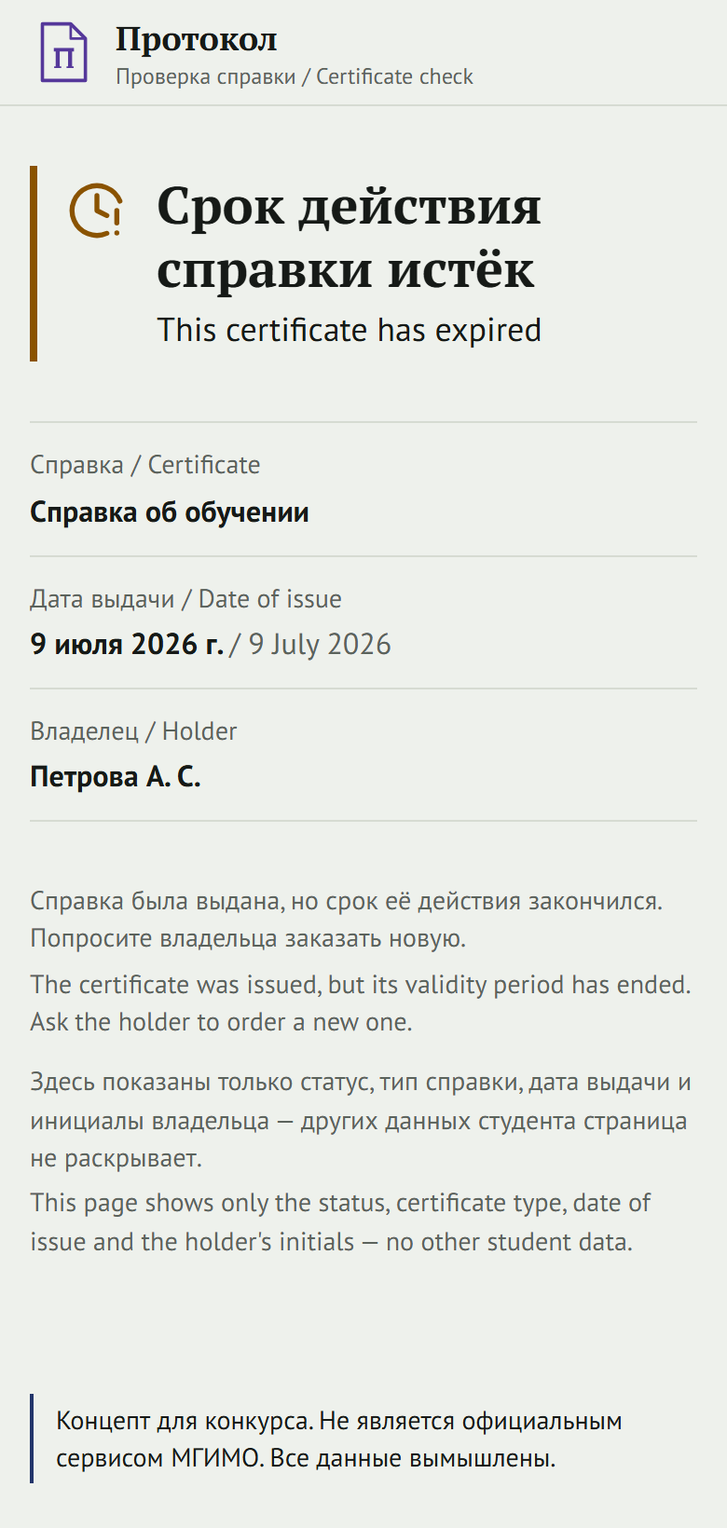
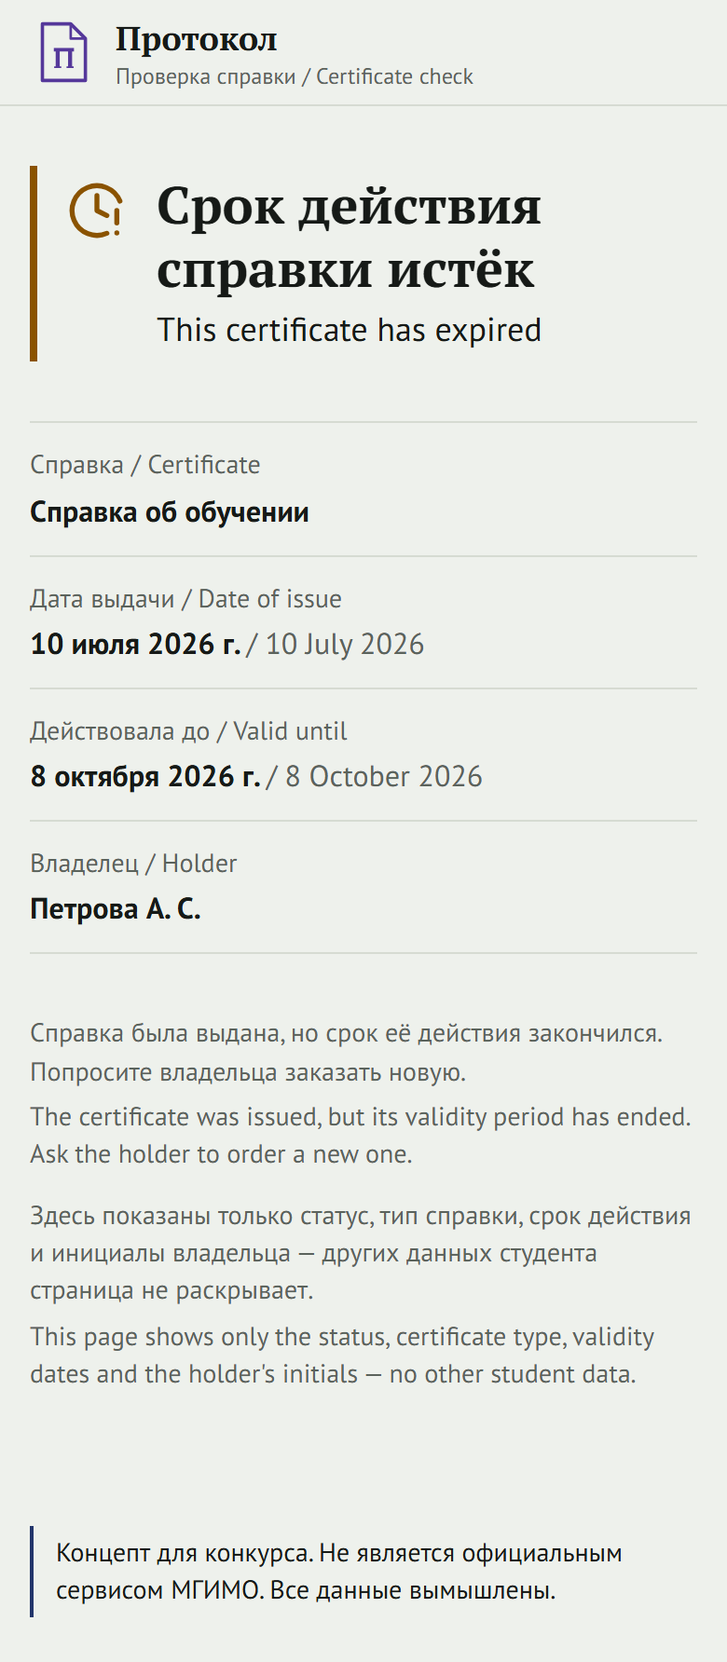
feat(verify): «Действует до» на странице проверки справки
Решение человека 07.11: проверяющему (посольству, работодателю) нужен срок действия, это не
персональные данные. S7 в 05-security.md поправил человек. У истёкшей справки — «Действовала до».
Интеграция и e2e обновлены; номера зачётки и оценок на /verify по-прежнему нет (тест 8).

diff --git a/src/app/verify/[token]/page.tsx b/src/app/verify/[token]/page.tsx
@@ -8,7 +8,7 @@ import { verifyTokenSchema } from "@/lib/verify-token";
 import { documentByToken, type VerifyState } from "@/server/repos/verify";
 
 // Публичная проверка справки по QR (T10). Без входа: guard не нужен — страница показывает только
-// разрешённое S7: «действительна / отозвана / срок истёк», тип, дату выдачи и инициалы. Номера
+// разрешённое S7: «действительна / отозвана / срок истёк», тип, дату выдачи, срок действия и инициалы. Номера
 // зачётки, оценок, причины отзыва нет и в выборке (repos/verify.ts). Битый токен — 404 без запроса к БД.
 // Своего loading.tsx нет: проверка до начала стрима, «не найдена» — настоящий HTTP 404.
 // Двуязычная: справку для визы проверяет посольство — английский идёт строкой под русским.
@@ -113,6 +113,20 @@ export default async function VerifyPage({ params }: PageProps<"/verify/[token]"
             </span>
           </dd>
         </div>
+        {doc.validUntil ? (
+          <div className="flex flex-col gap-0.5 py-3">
+            <dt className="text-sm text-ink-muted">
+              {doc.state === "expired" ? "Действовала до" : "Действует до"}{" "}
+              <span lang="en">/ Valid until</span>
+            </dt>
+            <dd className="font-bold text-ink">
+              {longDate(doc.validUntil, "ru-RU")}{" "}
+              <span lang="en" className="font-normal text-ink-muted">
+                / {longDate(doc.validUntil, "en-GB")}
+              </span>
+            </dd>
+          </div>
+        ) : null}
         <div className="flex flex-col gap-0.5 py-3">
           <dt className="text-sm text-ink-muted">
             Владелец <span lang="en">/ Holder</span>
@@ -125,11 +139,11 @@ export default async function VerifyPage({ params }: PageProps<"/verify/[token]"
         <p>{s.hint}</p>
         <p lang="en">{s.hintEn}</p>
         <p className="pt-2">
-          Здесь показаны только статус, тип справки, дата выдачи и инициалы владельца — других
+          Здесь показаны только статус, тип справки, срок действия и инициалы владельца — других
           данных студента страница не раскрывает.
         </p>
         <p lang="en">
-          This page shows only the status, certificate type, date of issue and the holder&apos;s
+          This page shows only the status, certificate type, validity dates and the holder&apos;s
           initials — no other student data.
         </p>
       </div>

diff --git a/src/server/repos/verify.ts b/src/server/repos/verify.ts
@@ -5,8 +5,8 @@ import { db } from "@/server/db";
 // Публичная проверка справки по QR (T10, S7) — исключение из правила «каждая функция репозитория
 // получает ctx»: проверяющий (посольство, работодатель) не входит в систему. Доступ даёт сам токен —
 // 128 бит случайности (repos/staff-requests.changeStatus), перебором не найти.
-// Наружу — только статус, тип, дата выдачи и инициалы. Полное ФИО собирается в инициалы ЗДЕСЬ и из
-// функции не выходит; номера зачётки, оценок, причины отзыва в выборке нет вовсе.
+// Наружу — только статус, тип, дата выдачи, срок действия и инициалы. Полное ФИО собирается
+// в инициалы ЗДЕСЬ и из функции не выходит; номера зачётки, оценок, причины отзыва в выборке нет вовсе.
 
 export type VerifyState = "valid" | "revoked" | "expired";
 
@@ -16,6 +16,8 @@ export type VerifiedDocument = {
   typeTitle: string;
   language: string;
   issuedAt: Date;
+  /** «Действует до» — решение человека 07.11 (S7): проверяющему нужен срок, это не персональные данные */
+  validUntil: Date | null;
   holder: string;
 };
 
@@ -43,6 +45,7 @@ export async function documentByToken(token: string, now: Date): Promise<Verifie
     typeTitle: r.type.title,
     language: r.language,
     issuedAt: d.issuedAt,
+    validUntil: d.validUntil,
     holder: holderInitials(r.student, r.language === "en"),
   };
 }

diff --git a/tests/e2e/certificates.spec.ts b/tests/e2e/certificates.spec.ts
@@ -188,6 +188,8 @@ test.describe("проверка по QR (/verify)", () => {
     await expect(page.getByRole("heading", { level: 1 })).toHaveText("Справка действительна");
     await expect(page.getByText("This certificate is valid")).toBeVisible();
     await expect(page.getByText("Справка об обучении на английском")).toBeVisible();
+    // Срок действия — решение человека 07.11 (S7)
+    await expect(page.getByText(/^Действует до/)).toBeVisible();
     // Справка на английском — инициалы латиницей, как в самой справке
     await expect(
       page.locator("dd").filter({ hasText: /^[A-Z][a-z]+ [A-Z]\. [A-Z]\.$/ }),

diff --git a/tests/integration/certificates.test.ts b/tests/integration/certificates.test.ts
@@ -84,7 +84,7 @@ describe.skipIf(!url)("справки в PostgreSQL", async () => {
     expect(json).not.toContain(full.firstName);
     expect(json).not.toContain(full.recordBookNo);
     expect(Object.keys(v!).sort()).toEqual(
-      ["holder", "issuedAt", "language", "state", "typeCode", "typeTitle"].sort(),
+      ["holder", "issuedAt", "language", "state", "typeCode", "typeTitle", "validUntil"].sort(),
     );
     expect(await verify.documentByToken("A".repeat(22), new Date())).toBeNull();
   });

diff --git a/docs/04-design.md b/docs/04-design.md
@@ -82,7 +82,7 @@
 - **Успеваемость (T07):** экран «Учёба». «Как у меня дела» — всегда про текущий семестр: средний рейтинг крупно (PT Serif), долги (`--danger`, `CircleX`, ссылкой на дисциплину — видны всегда, не прячутся за переключателем), `ScholarshipBadge` (`ShieldCheck` / `ShieldAlert` + причины списком; тот же компонент на «Сейчас»), «Экзамены и зачёты 9 ноября – 20 января: …» и «Ближайшее — экзамен «…», через 3 дня». ≥ 1024 — правая колонка (sticky), как «Изменения недели». Семестры — ссылки с чернильной чертой (`?semester=`), текущий — `/grades`. Дисциплины — **строки под линиями, не карточки** (роль `DisciplineCard`): название-ссылка на всю строку, форма контроля и дата, рейтинг-бар 0–100 с засечкой на 60 и числом «54/100», чип светофора; сначала проблемные. Светофор — тон + своя иконка + текст: «Долг» (`danger`, `CircleX`), «Ниже 60» (`warn`, `TrendingDown`) + «Не хватает 6 баллов до 60», оценка 3 (`warn`, `CircleAlert`), итог словом «Отлично (5)» / «Зачтено» / «В норме» (`ok`). Бар — SVG с атрибутами, не `style={{ width }}`: прод-CSP режет inline-стили. Детали `/grades/[id]`: по семестрам рейтинг `text-3xl`, бар, «это долг: пересдачу назначает деканат — «Заявки»», пары «подпись — значение» (на телефоне подпись над значением). У деталей нет skeleton намеренно: чужой id — настоящий HTTP 404 (стрим не начинается до проверки владельца). Заголовок экрана (`PageHeader`) переносит длинное слово — «Эконометрика» при тексте 200% растягивала мобильный вьюпорт.
 - **Заявки (T08):** студент — «Заявки»: «Активные» («Готова — заберите» первой) и «Архив» строками под линиями, одна заливная кнопка «Заказать справку». «Заказать справку» — каталог списком (мастер «Зачем?» — T10), форма из описания полей типа, язык справки радиокнопками, кнопка «Отправить заявку» на телефоне во всю ширину. Заявка — `RequestTimeline`: вертикальные шаги Подана → Принята → В работе → Готова → Выдана; пройденный — `CircleCheck` `--ok` и дата, текущий — `CircleDot` `--brand` и полужирный, будущий — тихий; скрытое «пройден / сейчас / впереди»; отклонение — `CircleX` `--danger` и «Причина: …», отмена — `CircleSlash`. Статусы — `REQUEST_STATUS` (все 7), «Выдана» — единственное место печати `--seal`. Подтверждения (отмена, отклонение с причиной, «Сбросить демо») — `DialogForm` на нативном `<dialog>`. Сотрудник — «Очередь заявок»: вкладки статуса ссылками, факультет и тип — GET-формой (работает без JS), просрочка — чип `--danger` + `AlarmClock` + «Просрочена на 2 дня», просроченные наверху. Карточка: статус и действия сверху (первый шаг — заливная кнопка-глагол, остальные — outline, «Отклонить» — destructive), студент, что указал, история с исполнителями. Строка-ссылка (касание по всей строке через `::after`) — цель касания считается по строке (`shell.spec.ts`).
 - **Уведомления (T09):** на телефоне — колокольчик в шапке справа от логотипа (44px в px, `aria-label` «Уведомления, 3 непрочитанных»), уведомления за 1 касание; число непрочитанных — только у колокольчика, на «Ещё» его нет (решение человека 06.11), на десктопе — у «Уведомлений» в боковой панели и на `/more`. Вкладки «Все / Объявления / Дедлайны / Заявки / Расписание» — ссылками с чернильной чертой, как очередь T08, у каждой вкладки — число новых, и у «Объявлений» тоже. Список — два раздела: «Новые» (сверху, `h2`, в его заголовке — тихая ghost-кнопка «Отметить…») и «Прочитанные» (ниже, мелкий приглушённый заголовок). Новое громко: черта цвета вида в поле страницы слева (как изменения в расписании; перенос и срок — `--warn`, заявка и объявление — `--brand`), значок вида в круге `--brand-soft`, заголовок `text-lg` полужирный, текст `--ink`, скрытое «Новое:». Прочитанное тихо: значок без круга `--ink-muted`, заголовок обычным, текст `text-sm` `--ink-muted` (решение человека 06.11: «в тёмной теме всё сливается в кашу»). Иконки вида — `Megaphone`, `AlarmClock`, `FileText`, `CalendarClock` + скрытая подпись вида; касание по всей строке открывает и отмечает прочитанным; есть ссылка — шеврон справа. «Отметить всё прочитанным» (на «Все») / «Отметить прочитанными» (на вкладке — гасит только её вид, ux-reviewer T09) — только когда есть новые (заливных кнопок на экране нет). Значок и бейдж колокольчика — в px: при тексте 200% бейдж не закрывает значок. «Объявления» — доска: закреплённые сверху («Закреплено» + `Pin`), заголовок PT Serif, текст с разметкой (жирный, курсив, списки, ссылки; внешняя — значок и скрытое «(внешняя ссылка)»); объявление, на которое ведёт уведомление, подсвечено `--brand-soft` (`:target`); объявление с неоткрытым уведомлением — точка и «Новое». На «Сейчас» текст объявления — без разметки. Сотрудник: «Заявки / Объявления / Расписание» в шапке (на телефоне — без значков, в одну строку; «Выйти» — в строке логотипа; шапка в 3 строки вместо 5); «Новое объявление» — подписи над полями, «Кому» — чекбоксы своих факультетов (по умолчанию все), курсов и групп (группы свёрнуты в `<details>` по факультету), заливная «Опубликовать» — одна на экран, успех — сноска с чертой `--ok` и «получили N студентов»; в «Моих объявлениях» — «Кому» и число адресатов на своих факультетах (не число разосланных уведомлений). Расписание групп — GET-форма «Группа + День»; без дня — ближайший день с предстоящими парами; заголовок дня первой строкой, «‹ Предыдущий», «К сегодня», «Следующий ›» — второй; пары строками со столбцом времени; «Перенести» — outline, диалог `DialogForm` (дата, начало «С 08:00 до 21:00», аудитория «Сейчас — ауд. 5050. Пусто — останется прежняя», причина → «Перенести пару»); перенесённая — `CalendarClock` + «Перенос, было 10:10» + причина `--warn`.
-- **Справки (T10):** «Заказать справку» начинается с `PurposePicker` — сетка 6 целей (плитка-ссылка целиком: значок в круге `--brand-soft`, цель `text-lg` полужирным, строка «для чего» `--ink-muted`; колонки по ширине в rem: `minmax(9.5rem)` — две колонки и на 360, при тексте 200% — одна; на ≥ 1024 ровно 3×2). **Над** сеткой тихая ссылка «Я знаю, какая справка нужна» → полный каталог: кто знает справку, доходит в 1 касание без прокрутки (ux-reviewer T10). Дальше — строки под линиями (как каталог T08, касание по всей строке): справки под цель; пометка `--brand` полужирным — только у одной, рекомендованной («Чаще всего просят для визы»): язык и так написан в строке «Язык: …», шаг «На каком языке справка?» (рекомендованный язык первым, с пометкой «Рекомендуем»), форма с языком строкой над полями («Язык справки: английский», строчными) и ссылкой «Изменить». Заливная кнопка — только «Отправить заявку»; счётчика шагов нет (шаг языка необязательный — «2 из 3» врал бы). Заявка «Готова»/«Выдана»: outline-кнопка «Скачать справку (PDF)» с `FileDown`; отозвана — чип «Справка отозвана» (`danger`, `ShieldX`; не печать «Выдана» `--seal` — она значит действующий документ) и сноска с чертой `--danger`: «Деканат отозвал справку» + причина + «Новая справка получит новый QR-код» + outline «Подать заново» прямо в сноске. Сотрудник: блок «Справка» («Оформлена …» на «Готова», «Выдана …» на «Выдана» — документ создаётся раньше выдачи на руки; действует до, «Открыть страницу проверки», destructive «Отозвать справку» → `DialogForm` с обязательной причиной). **PDF:** A4, бланк — знак-лист и «Протокол — концепт цифрового деканата» в шапке под тонкой линией, заголовок PT Serif `--brand`, строки «подпись — значение» под линиями, «Сотрудник деканата» с линией подписи и пунктирный круг «М.П.» (`--seal`), внизу QR и адрес проверки; водяной знак по диагонали через середину листа, последним слоем и мимо QR (у кода белый фон, знак обрезался — ux-reviewer T10) «ОБРАЗЕЦ — КОНЦЕПТ ДЛЯ КОНКУРСА» (`--seal`, 12%; в задаче было через «·» — заменено тире по правилу «без разделителей „A · B“»), строка концепта в подвале с чертой `--brand`. Лигатуры в PDF выключены: иначе «fi» в «Certificate» не ищется и не копируется. **`/verify`:** без навигации кабинета, колонка по центру (как документ) — шапка «Протокол / Проверка справки», статус крупно (черта слева 4px + значок 32px + `h1`): «Справка действительна» (`--ok`, `ShieldCheck`), «отозвана деканатом» (`--danger`, `ShieldX`), «срок действия истёк» (`--warn`, `ClockAlert`), «не найдена» (`--ink-muted`, `SearchX`, HTTP 404); под каждой русской строкой — английская (`lang="en"`), включая подсказки, «не найдена» и свой двуязычный `error.tsx`. Шаги мастера — со своим skeleton (`requests/new/loading.tsx`: в адресе нет id, 404 после стрима не грозит). Ниже — «Справка / Дата выдачи / Владелец» строками под линиями и подсказка, что сверить с бумагой.
+- **Справки (T10):** «Заказать справку» начинается с `PurposePicker` — сетка 6 целей (плитка-ссылка целиком: значок в круге `--brand-soft`, цель `text-lg` полужирным, строка «для чего» `--ink-muted`; колонки по ширине в rem: `minmax(9.5rem)` — две колонки и на 360, при тексте 200% — одна; на ≥ 1024 ровно 3×2). **Над** сеткой тихая ссылка «Я знаю, какая справка нужна» → полный каталог: кто знает справку, доходит в 1 касание без прокрутки (ux-reviewer T10). Дальше — строки под линиями (как каталог T08, касание по всей строке): справки под цель; пометка `--brand` полужирным — только у одной, рекомендованной («Чаще всего просят для визы»): язык и так написан в строке «Язык: …», шаг «На каком языке справка?» (рекомендованный язык первым, с пометкой «Рекомендуем»), форма с языком строкой над полями («Язык справки: английский», строчными) и ссылкой «Изменить». Заливная кнопка — только «Отправить заявку»; счётчика шагов нет (шаг языка необязательный — «2 из 3» врал бы). Заявка «Готова»/«Выдана»: outline-кнопка «Скачать справку (PDF)» с `FileDown`; отозвана — чип «Справка отозвана» (`danger`, `ShieldX`; не печать «Выдана» `--seal` — она значит действующий документ) и сноска с чертой `--danger`: «Деканат отозвал справку» + причина + «Новая справка получит новый QR-код» + outline «Подать заново» прямо в сноске. Сотрудник: блок «Справка» («Оформлена …» на «Готова», «Выдана …» на «Выдана» — документ создаётся раньше выдачи на руки; действует до, «Открыть страницу проверки», destructive «Отозвать справку» → `DialogForm` с обязательной причиной). **PDF:** A4, бланк — знак-лист и «Протокол — концепт цифрового деканата» в шапке под тонкой линией, заголовок PT Serif `--brand`, строки «подпись — значение» под линиями, «Сотрудник деканата» с линией подписи и пунктирный круг «М.П.» (`--seal`), внизу QR и адрес проверки; водяной знак по диагонали через середину листа, последним слоем и мимо QR (у кода белый фон, знак обрезался — ux-reviewer T10) «ОБРАЗЕЦ — КОНЦЕПТ ДЛЯ КОНКУРСА» (`--seal`, 12%; в задаче было через «·» — заменено тире по правилу «без разделителей „A · B“»), строка концепта в подвале с чертой `--brand`. Лигатуры в PDF выключены: иначе «fi» в «Certificate» не ищется и не копируется. **`/verify`:** без навигации кабинета, колонка по центру (как документ) — шапка «Протокол / Проверка справки», статус крупно (черта слева 4px + значок 32px + `h1`): «Справка действительна» (`--ok`, `ShieldCheck`), «отозвана деканатом» (`--danger`, `ShieldX`), «срок действия истёк» (`--warn`, `ClockAlert`), «не найдена» (`--ink-muted`, `SearchX`, HTTP 404); под каждой русской строкой — английская (`lang="en"`), включая подсказки, «не найдена» и свой двуязычный `error.tsx`. Шаги мастера — со своим skeleton (`requests/new/loading.tsx`: в адресе нет id, 404 после стрима не грозит). Ниже — «Справка / Дата выдачи / Действует до (у истёкшей — «Действовала до») / Владелец» строками под линиями и подсказка, что сверить с бумагой.
 - **Дизайн-проход (06.11, скилл `frontend-design`).** Смелость — в одном месте: метафора бланка (знак-лист, «М.П.», сноски с чертой). Печать-оттиск T04 заменена листом бланка в T05 (см. «Логотип»). Всё остальное тише:
   - пустые состояния — текст слева, без карточки, под тонкой линией; знак «М.П.» (место печати с бланков, `stampPlace`) — только у заявок и справок, где метафора «ещё не заверено» точна; ошибка — сплошной круг `--danger`;
   - оболочка на `--bg` без карточек; активный пункт — чернильная черта (сверху в нижней панели, слева в сайдбаре) + полужирный, не плашка;

diff --git a/docs/03-architecture.md b/docs/03-architecture.md
@@ -211,7 +211,7 @@ Server Action → zod.parse → requireRole → service → repo(ctx) → revali
 | `/staff/announcements` | STAFF | объявления (T09): адресаты — только свои факультеты. `buildAudience` (`services/staff-rules.ts`) отбрасывает чужой факультет и группу, «ничего не выбрано» = все свои (не `{}` «всем»); `repos/staff-announcements.ts` ещё раз фильтрует адресатов по `facultyIds`. Публикация — одна транзакция: объявление + уведомления адресатам (тело — `markdownToPlain` ≤ 200, ссылка — на доску). «Никому» — не публикуем. «Закрепить» — `updateMany({ id, authorId })` |
 | `/staff/schedule?group=…&day=…` | STAFF | расписание групп и перенос пары (T09): только академические группы своих факультетов (`repos/staff-schedule.ts`, фильтр в каждом запросе). Перенос — `updateMany({ id, startsAt: ожидаемое, факультет })` с `count === 1` (два сотрудника разом → «пару уже изменили»), длительность сохраняется, `originalStartsAt` — первое исходное время, `change = MOVED`, причина — `changeNote`; уведомление каждому студенту группы со ссылкой `/schedule?day=…`. Время 08:00–21:00, не в прошлое и не дальше 30 дней (zod + `newStartsAt`). Ночной `db:reseed-schedule` возвращает расписание к сиду |
 | `/requests/[number]/pdf` | STUDENT, только владелец | PDF справки (T10): route handler, `requireStudent()` первой строкой; `repos/requests.documentForPdf` — `WHERE number AND studentId = ctx AND status ∈ {READY, ISSUED} AND документ не отозван`, явный select без зачётки и оценок; иначе 404 без тела (чужую, неготовую и отозванную не различаем). Генерация по запросу, файлы не храним (stateless): `@react-pdf/renderer`, TTF PT Sans/PT Serif из `assets/fonts` (`outputFileTracingIncludes` кладёт их в standalone), QR — вектор из матрицы `uqr` (ECC M, тихая зона 4) на `APP_URL/verify/<token>`; англ. версия — ФИО по ICAO 9303, факультеты — `lib/certificate-en.ts`. `Cache-Control: private, no-store`. Шрифты регистрируются заново на каждый документ, рендеры — по очереди (кэш глифов fontkit портил ToUnicode следующей справки — см. `docs/process/ai-errors.md`, T10) |
-| `/verify/[token]` | публично | проверка справки по QR (T10, S7). Токен — zod (22 символа base64url), битый → 404 без запроса к БД. `repos/verify.ts` — исключение «без ctx» (как `system.ts`): доступ даёт сам токен (128 бит, перебором не найти — лимит запросов не нужен). Наружу — только «действительна / отозвана / срок истёк», тип, дата выдачи и инициалы; полное ФИО превращается в инициалы внутри репозитория, причина отзыва в выборку не входит. Двуязычная (английский — строкой под русским: справку для визы проверяет посольство). Без `loading.tsx` — «не найдена» отдаёт настоящий 404; `robots: noindex`, `referrer: no-referrer`. **Отзыв** — сотрудник своего факультета на карточке заявки: `updateMany({ id, revoked: false, факультет })` с `count === 1` (двое разом → conflict), `revokedAt/revokedReason/revokedByUserId` + уведомление студенту в той же транзакции; причину видит только студент |
+| `/verify/[token]` | публично | проверка справки по QR (T10, S7). Токен — zod (22 символа base64url), битый → 404 без запроса к БД. `repos/verify.ts` — исключение «без ctx» (как `system.ts`): доступ даёт сам токен (128 бит, перебором не найти — лимит запросов не нужен). Наружу — только «действительна / отозвана / срок истёк», тип, дата выдачи, «действует до» (решение человека 07.11, S7) и инициалы; полное ФИО превращается в инициалы внутри репозитория, причина отзыва в выборку не входит. Двуязычная (английский — строкой под русским: справку для визы проверяет посольство). Без `loading.tsx` — «не найдена» отдаёт настоящий 404; `robots: noindex`, `referrer: no-referrer`. **Отзыв** — сотрудник своего факультета на карточке заявки: `updateMany({ id, revoked: false, факультет })` с `count === 1` (двое разом → conflict), `revokedAt/revokedReason/revokedByUserId` + уведомление студенту в той же транзакции; причину видит только студент |
 | `/dev/ui` | только `pnpm dev` | витрина компонентов; в прод-сборке 404 |
 | `/api/calendar/[token]` | по токену | подписка на расписание. Файл `route.ts`; ссылка вида `…/<token>.ics`, суффикс `.ics` отрезаем в обработчике (папка `[token].ics` — недопустимый динамический сегмент) |
 | `/api/assistant` | STUDENT | стрим ответа ИИ |

diff --git a/docs/process/journal.md b/docs/process/journal.md
@@ -164,4 +164,4 @@
 - Стоит снять человеку: скачивание PDF на своём телефоне и сканирование QR камерой (живой сценарий для видео: «справка для визы за 4 касания → QR → посольство видит „Действительна“»); отзыв Ириной — и `/verify`, который сразу показывает «Отозвана».
 **Время:** ~2 ч
 
-**T10 — итог проверки человеком (07.11).** QR из справки распознан камерой телефона (по `screenshots/10-T10-qr-camera.png`): > «QR работает» — приёмка 3 закрыта. security-guidance выключен по «да» человека. «Действует до» на `/verify` — человек согласился («Да»): правку S7 в `05-security.md` вносит человек, поле — отдельным коммитом. Отдельная сессия проверила agy cli — вердикт «условно» (`07-tooling.md`, правило в CLAUDE.md), отдельный коммит.
+**T10 — итог проверки человеком (07.11).** QR из справки распознан камерой телефона (по `screenshots/10-T10-qr-camera.png`): > «QR работает» — приёмка 3 закрыта. security-guidance выключен по «да» человека. «Действует до» на `/verify` — человек согласился («Да»): правку S7 в `05-security.md` вносит человек, поле — отдельным коммитом. Отдельная сессия проверила agy cli — вердикт «условно» (`07-tooling.md`, правило в CLAUDE.md), отдельный коммит. «Действует до» добавлено 07.11: `repos/verify.ts` отдаёт `validUntil`, на странице — «Действует до / Valid until» (у истёкшей — «Действовала до»); интеграция 7/7, e2e `certificates` + `security` — 97 + 1 пропущен; скриншоты `10-T10-verify-valid/expired-390-*` пересняты. S7 в `05-security.md` поправил человек (вручную, 07.11); ИИ заметил, что в первой правке пропал хвост «Никаких оценок, номера зачётки» (его не было в предложенном ИИ тексте — неточность ИИ), человек вернул.

diff --git a/docs/05-security.md b/docs/05-security.md
@@ -41,7 +41,7 @@
 - `X-Content-Type-Options: nosniff`, `Referrer-Policy: strict-origin-when-cross-origin`, `frame-ancestors 'none'`.
 
 ## S7. Публичные точки
-- `/verify/[token]`: токен 128 бит; показываем только «действительна/отозвана», тип справки, дату выдачи и инициалы («Петрова А. С.»). Никаких оценок, номера зачётки.
+- `/verify/[token]`: токен 128 бит; показываем только «действительна / отозвана / срок истёк», тип справки, дату выдачи, срок действия («действует до») и инициалы («Петрова А. С.»). Никаких оценок, номера зачётки.
 - `/api/calendar/[token].ics`: отдельный токен, перевыпускается из профиля; без оценок и персональных данных, только пары.
 
 ## S8. ИИ
